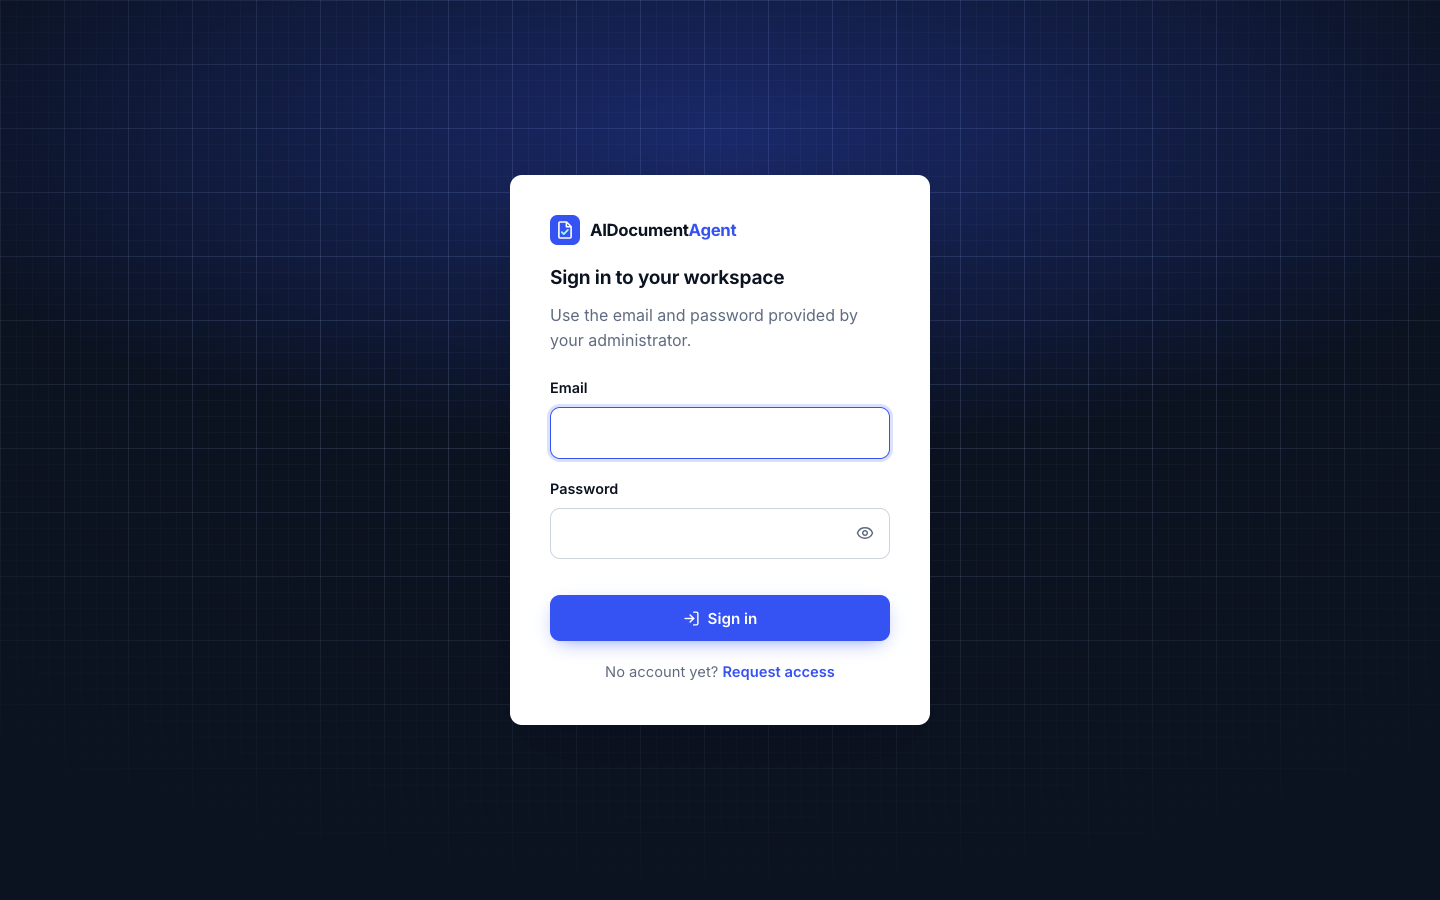
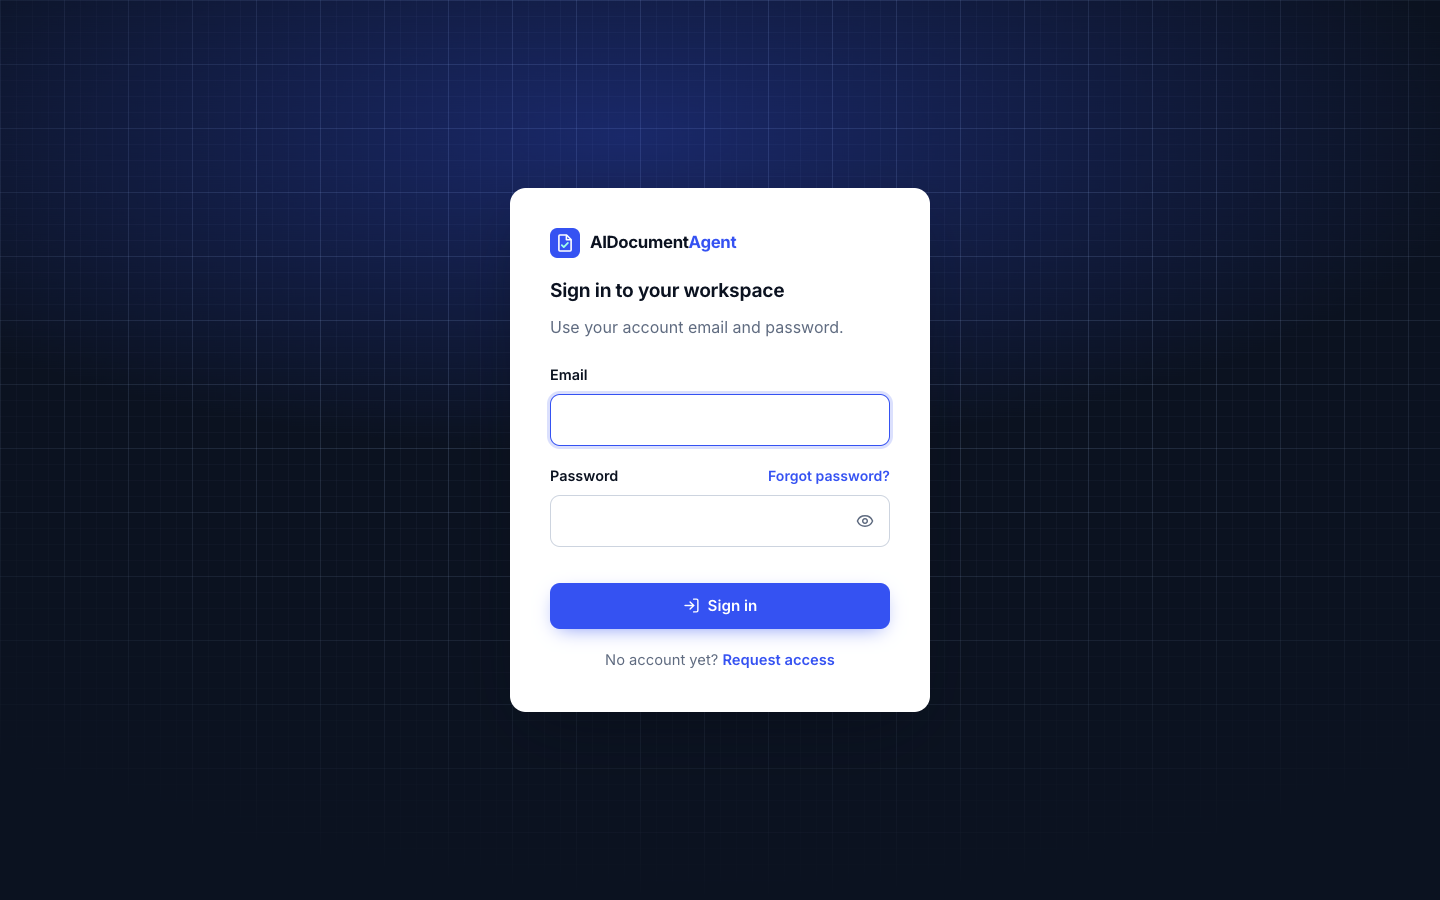
README: new screenshots for the home sliders, task finder, reset and invite flows
- Hero product-tour slides, start-a-task picker, capabilities and findings sliders,
  hover state, refreshed home, results, mobile, sign-in and admin users images
- Forgot-password screenshot; updated project structure for new modules

Changed region(s): [[0.3438, 0.1867, 0.6562, 0.8089]]

diff --git a/README.md b/README.md
@@ -4,7 +4,7 @@
 
 AIDocumentAgent reviews engineering drawings against ISO and ASME standards, synthesises insights across whole collections of legal documents, and answers clinical questions from your own files. Every finding is located, every answer is sourced, and anything the system cannot verify is flagged instead of filled in.
 
-![AIDocumentAgent home page](docs/images/site-home.png)
+![AIDocumentAgent home page: hero with the product tour slider](docs/images/site-home.png)
 
 <p align="center">
   <a href="#screenshots">Screenshots</a> ·
@@ -63,27 +63,47 @@ The three workspaces share one design principle: **models do the reading, but de
 
 ### Website
 
+**Home page product tour.** The hero slider fades between the three workspaces. Each slide has its own annotated callouts, and there are tabs, autoplay with a progress bar, and a pause button.
+
+![Hero slider: Engineering, Legal and Medical slides](docs/images/site-hero-slides.png)
+
+**Start a task.** Pick a workspace and a task, and the workspace opens on that tab. Popular shortcuts and a scrolling "Built with" strip sit underneath.
+
+![Start a task picker with popular tasks and the Built with marquee](docs/images/site-home-task-finder.png)
+
+| Capabilities slider with numbered workspace filters | Hover: lift, cursor spotlight, accent number |
+|---|---|
+| ![Capabilities slider with All, Engineering, Legal and Medical tabs](docs/images/site-home-capabilities.png) | ![Capability card hover state](docs/images/site-home-hover.png) |
+
+| Real findings from the test runs (slider) | Measured results (count up on scroll) |
+|---|---|
+| ![Findings slider with critical, unrecorded and verified findings](docs/images/site-home-findings.png) | ![Results from internal test suites](docs/images/site-home-results.png) |
+
 | Workflow | Verification guardrails |
 |---|---|
 | ![How it works section](docs/images/site-home-workflow.png) | ![Guardrails section](docs/images/site-home-guardrails.png) |
 
-| Engineering solution page | Measured results |
+| Engineering solution page | About |
 |---|---|
-| ![Engineering solution page](docs/images/site-solution-engineering.png) | ![Results from internal test suites](docs/images/site-home-results.png) |
+| ![Engineering solution page](docs/images/site-solution-engineering.png) | ![About page](docs/images/site-about.png) |
 
-| About | Contact |
-|---|---|
-| ![About page](docs/images/site-about.png) | ![Contact page with form](docs/images/site-contact.png) |
+**Contact**
 
-**Mobile** (390 px: home, navigation menu, contact form)
+![Contact page with form](docs/images/site-contact.png)
+
+**Mobile** (390 px: hero, product tour, start-a-task picker)
 
 ![Mobile views](docs/images/site-mobile.png)
 
 ### Sign-in and admin panel
 
-| Sign-in | Admin overview |
+| Sign-in (with "Forgot password?") | Self-service password reset |
 |---|---|
-| ![Sign-in page](docs/images/login.png) | ![Admin overview with KPIs and daily charts](docs/images/admin-overview.png) |
+| ![Sign-in page](docs/images/login.png) | ![Forgot password page](docs/images/forgot-password.png) |
+
+| Admin overview | Users: invite by single-use link |
+|---|---|
+| ![Admin overview with KPIs and daily charts](docs/images/admin-overview.png) | ![Invite a user: the link is shown when email is not configured](docs/images/admin-users.png) |
 
 See **[Admin panel](#admin-panel)** for every admin screen and a how-to guide.
 
@@ -274,9 +294,9 @@ account's sessions.
 |---|---|
 | ![Post editor with preview and search appearance](docs/images/admin-post-editor.png) | ![Blog article page](docs/images/blog-post.png) |
 
-| Users | Messages |
+| Users (invitations, reset links, 2FA status) | Messages |
 |---|---|
-| ![User management](docs/images/admin-users.png) | ![Contact inbox](docs/images/admin-messages.png) |
+| ![User management with an invitation link](docs/images/admin-users.png) | ![Contact inbox](docs/images/admin-messages.png) |
 
 | Activity log | Settings |
 |---|---|
@@ -496,27 +516,34 @@ Agentic_RAG_System/
 │   │   └── engineering_agent_service.py, engineering_loader.py, engineering_rules.py,
 │   │       engineering_prompts.py, engineering_store.py, engineering_templates.py
 │   │   ├── platform_store.py, security.py, usage_tracker.py   # Users, sessions, analytics, model cost
-│   ├── manage.py                   # create-admin / reset-password
+│   │   ├── crypto.py, file_safety.py, prompt_guard.py, phi_redaction.py   # Hardening
+│   │   └── account_links.py, mailer.py, backup.py   # Invite/reset links, SMTP, backups
+│   ├── tests/                      # pytest suite (113 tests)
+│   ├── manage.py                   # create-admin, reset-password, backup, restore
 │   ├── data/                       # Runtime data (git-ignored): SQLite DBs, uploads
 │   └── requirements.txt
 ├── frontend/
 │   ├── app/
 │   │   ├── (site)/                 # Home, solutions, about, contact (static)
-│   │   ├── (auth)/login/           # Sign-in page
+│   │   ├── (auth)/                 # Sign-in, forgot-password, reset-password
 │   │   ├── (workspace)/workspace/  # The application (sign-in required, noindex)
 │   │   ├── (workspace)/admin/      # Admin panel (admins only)
 │   │   ├── sitemap.js, robots.js, manifest.js, opengraph-image.js, icon.svg, apple-icon.js
-│   │   └── globals.css, styles/workspace.css
-│   ├── components/site/            # Header, footer, breadcrumbs, JSON-LD, contact form
+│   │   └── globals.css, styles/{workspace,motion,carousel}.css
+│   ├── components/site/            # Header, footer, contact form, Carousel, Marquee, TaskFinder,
+│   │                               # CapabilitySlider, SiteMotion (spotlight, tilt, count-up)
 │   ├── components/workspace/       # Engineering, Legal, Medical, Status
-│   ├── components/auth/            # AuthProvider, login form
+│   ├── components/auth/            # AuthProvider, login, forgot and reset password forms
 │   ├── components/admin/           # Admin pages and SVG charts
 │   ├── components/account/         # Account page
-│   ├── lib/                        # site.js, content.js, structured-data.js, api.js, og.js
+│   ├── lib/                        # site.js, content.js, structured-data.js, api.js, og.js, initial-view.js
+│   ├── proxy.js                    # Per-request nonce CSP for sign-in, workspace and admin
+│   ├── e2e/                        # Playwright end-to-end and accessibility tests
 │   └── assets/                     # Product screenshots (static imports)
 ├── scripts/
 │   ├── generate_engineering_samples.py   # Drawings with planted errors + answer key
-│   └── generate_legal_corpus.py          # 100 fictional legal documents
+│   ├── generate_legal_corpus.py          # 100 fictional legal documents
+│   └── evaluate_agents.py                # Score the agents against the answer keys
 ├── datasets/
 │   ├── engineering_samples/        # Generated drawings (PDF, DXF)
 │   └── legal_corpus/               # Generated legal documents
